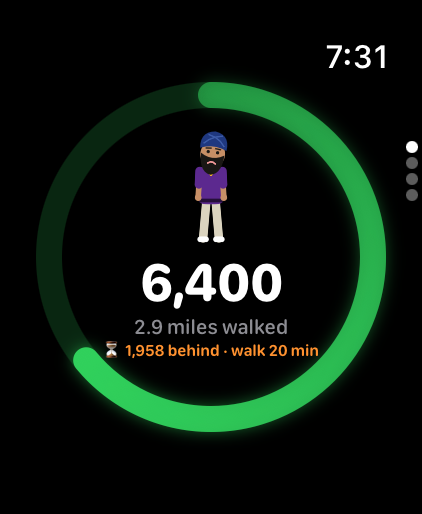
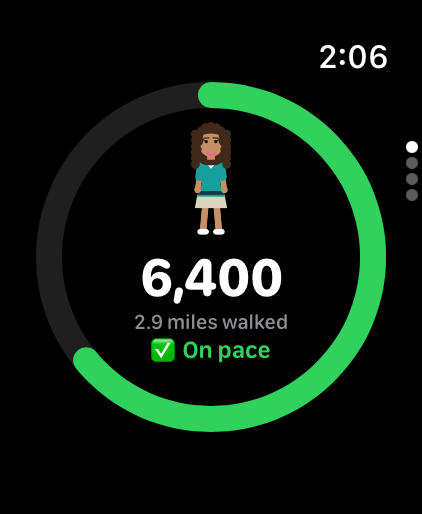
README: new screenshots for all three styles + watch; privacy policy page
Fresh iPhone screenshots (Clean minimal, 16-bit adventure, Original,
History) and Apple Watch (Clean minimal, 16-bit). The privacy policy
lives in docs/ for GitHub Pages: no account, no data collected,
everything stays on the device.

diff --git a/docs/privacy.html b/docs/privacy.html
@@ -1,0 +1,51 @@
+<!DOCTYPE html>
+<html lang="en">
+<head>
+<meta charset="utf-8">
+<meta name="viewport" content="width=device-width, initial-scale=1">
+<title>OnPace Privacy Policy</title>
+<style>
+  body { font: 17px/1.55 -apple-system, BlinkMacSystemFont, "Segoe UI", sans-serif; max-width: 680px;
+         margin: 40px auto; padding: 0 20px; color: #1d1d1f; }
+  h1 { font-size: 30px; margin-bottom: 4px; }
+  h2 { font-size: 20px; margin-top: 28px; }
+  .muted { color: #6e6e73; }
+  @media (prefers-color-scheme: dark) { body { background: #000; color: #f5f5f7; } .muted { color: #a1a1a6; } }
+</style>
+</head>
+<body>
+<h1>OnPace Privacy Policy</h1>
+<p class="muted">Last updated November 8, 2026</p>
+
+<p>OnPace is a step tracker for iPhone and Apple Watch. In short: <strong>OnPace does not collect any of your data.</strong>
+There is no account, no sign-in, no ads, and no tracking.</p>
+
+<h2>What OnPace reads</h2>
+<p>With your permission, OnPace reads these from Apple Health on your device:</p>
+<ul>
+  <li>Steps</li>
+  <li>Walking + running distance</li>
+  <li>Finished workouts (to show them as sessions)</li>
+</ul>
+<p>It also uses your phone's and watch's motion sensors to tell when you're walking, so your character can walk with you.
+OnPace never writes to or changes your Apple Health data.</p>
+
+<h2>Where your data goes</h2>
+<p>Nowhere. Everything stays on your iPhone and Apple Watch. Your iPhone and watch share your goal, character and
+today's numbers with each other directly, using Apple's built-in connection between them. OnPace has no servers and
+sends nothing to us or to anyone else. Health data is never used for advertising or shared with third parties.</p>
+
+<h2>Your settings</h2>
+<p>Your goal, character, style and sessions are saved only on your devices. Deleting OnPace deletes them.
+You can turn off OnPace's access to Apple Health at any time in the Health app or in iPhone Settings → Privacy &amp; Security → Health.</p>
+
+<h2>Children</h2>
+<p>OnPace does not knowingly collect information from anyone, including children.</p>
+
+<h2>Changes</h2>
+<p>If this policy ever changes, the new version will be posted on this page with a new date.</p>
+
+<h2>Contact</h2>
+<p>Questions? Open an issue at <a href="https://github.com/jappreets-stack/OnPace/issues">github.com/jappreets-stack/OnPace</a>.</p>
+</body>
+</html>

diff --git a/StepsWatch Watch App/StepsWatchApp.swift b/StepsWatch Watch App/StepsWatchApp.swift
@@ -14,8 +14,9 @@ struct StepsWatch_Watch_AppApp: App {
     init() {
         WatchSync.shared.start()          // receives goal + mini-me from the iPhone
         #if DEBUG
-        // Simulator testing: `-appStyle retro16` (the phone normally sends the style).
+        // Simulator testing: `-appStyle retro16`, `-look <json>` (the phone normally sends these).
         if let style = UserDefaults.standard.string(forKey: "appStyle") { Shared.defaults.set(style, forKey: Shared.appStyleKey) }
+        if let look = UserDefaults.standard.string(forKey: "look") { Shared.defaults.set(look, forKey: Shared.lookKey) }
         #endif
         FaceRefresher.shared.start()      // redraws complications when Health gets new steps
     }

diff --git a/docs/index.html b/docs/index.html
@@ -1,0 +1,7 @@
+<!DOCTYPE html>
+<html lang="en"><head><meta charset="utf-8"><meta name="viewport" content="width=device-width, initial-scale=1">
+<title>OnPace</title>
+<style>body{font:17px/1.55 -apple-system,BlinkMacSystemFont,sans-serif;max-width:680px;margin:40px auto;padding:0 20px}
+@media (prefers-color-scheme: dark){body{background:#000;color:#f5f5f7}}</style></head>
+<body><h1>OnPace</h1><p>A step tracker for iPhone and Apple Watch: your daily goal ring, whether you're on pace, and a character that walks when you walk.</p>
+<p><a href="privacy.html">Privacy Policy</a> · <a href="https://github.com/jappreets-stack/OnPace">Source on GitHub</a></p></body></html>

diff --git a/README.md b/README.md
@@ -5,14 +5,21 @@ It reads your step count from Apple Health and shows progress toward a daily goa
 a hand-drawn animated character that reacts to how your day is going.
 
 <p align="center">
-  <img src="Screenshots/iphone-main.png" width="260" alt="iPhone Today screen in the Clean minimal style: green goal ring, mini-me, and a card of pace rows">
-  &nbsp;&nbsp;&nbsp;
-  <img src="Screenshots/watch-ring.png" width="220" alt="Apple Watch Ultra 2 ring screen">
-  &nbsp;&nbsp;&nbsp;
-  <img src="Screenshots/iphone-history.png" width="260" alt="History tab: last 7 days with a tiny you on each bar">
-  &nbsp;&nbsp;&nbsp;
-  <img src="Screenshots/iphone-builder.png" width="260" alt="Build your mini-me character builder">
+  <img src="Screenshots/iphone-main.png" width="240" alt="iPhone Today screen, Clean minimal style: green goal ring, character, and a card of pace rows">
+  &nbsp;
+  <img src="Screenshots/iphone-retro16.png" width="240" alt="iPhone Today screen, 16-bit adventure style: pixel castle world and a ring of gold blocks">
+  &nbsp;
+  <img src="Screenshots/iphone-original.png" width="240" alt="iPhone Today screen, Original style: blue ring and emoji icons">
 </p>
+<p align="center">
+  <img src="Screenshots/watch-ring.png" width="200" alt="Apple Watch ring screen, Clean minimal style">
+  &nbsp;
+  <img src="Screenshots/watch-retro16.png" width="200" alt="Apple Watch ring screen, 16-bit adventure style">
+  &nbsp;
+  <img src="Screenshots/iphone-history.png" width="240" alt="History tab: last 7 days with a tiny character on each bar">
+</p>
+
+<p align="center"><b>Now in TestFlight.</b> · <a href="https://jappreets-stack.github.io/OnPace/privacy.html">Privacy policy</a> (no account, no data collected, everything stays on your devices)</p>
 
 ## Features
 
@@ -25,7 +32,8 @@ a hand-drawn animated character that reacts to how your day is going.
 - **Styles:** Clean minimal (default: Apple-style grouped cards, one green ring, SF Symbols), 16-bit adventure
   (original pixel art drawn in code: mountains and a castle by day or under the stars, a gold block ring, a pixel
   mini-me built from your look with walk / stand / slump / celebrate / swing frames, RPG-style menu panels), or
-  Original (emoji icons and a blue ring); theme Auto, Light, or Dark
+  Original (emoji icons and a blue ring); light or dark. The style is its own section at the top of Settings
+  and follows you to the Apple Watch
 - **Your mini-me walks when you walk:** Core Motion activity (walking / running) drives the animation only; when you
   stop it stands (on pace), slumps (behind), or celebrates (goal hit). Step counts still come only from Apple Health
 - **Home-screen widget:** a small ring with today's steps and how many are left (reads Apple Health, falls back to
@@ -74,10 +82,10 @@ a hand-drawn animated character that reacts to how your day is going.
 - Drawn entirely in code with SwiftUI `Canvas` + `TimelineView` on a 100×140 grid. No image assets.
 - Three outfits with the same poses: Golfer (pants or skort), Baller (jersey with your letter),
   and Gym (tank or sports top)
-- Build your mini-me: male or female body, 6 skin tones, 10 hair styles and head coverings (turban, hijab,
-  short, long, ponytail, braids, curly, bun, bald, cap), beard, glasses, eyelashes, lip color, and
-  main / accent / headwear colors from a 12-color palette
-- Male / Female sets matching defaults (body, hair, outfit), and every option stays open to change
+- Build your mini-me: male or female body, 6 skin tones, hair and head coverings that fit the body (male: turban,
+  short, curly, bald, cap; female: hijab, short, long, long curly, ponytail, braids, bun, cap), beard, glasses,
+  eyelashes, lip color, and one outfit color from a 12-color palette (the trim picks a matching color)
+- Male / Female sets matching defaults (body, hair, outfit)
 - Mood follows you: swings during a golf round, walks while you walk, celebrates at goal, stands when on pace, slumps when behind
 
 <p align="center">
@@ -116,6 +124,12 @@ a hand-drawn animated character that reacts to how your day is going.
 - **State:** settings and sessions are stored with `@AppStorage`; data refreshes whenever the app becomes active.
 - **Layout:** the watch ring is centered on the physical screen (`WKInterfaceDevice.screenBounds`)
   instead of the safe area, so it stays centered next to the clock and page indicator.
+
+## Privacy
+
+OnPace has no account, no servers, no ads and no analytics. It reads steps, walking distance and finished workouts
+from Apple Health on your device and never writes to Health. Full policy:
+[jappreets-stack.github.io/OnPace/privacy.html](https://jappreets-stack.github.io/OnPace/privacy.html)
 
 ## Tech
 
